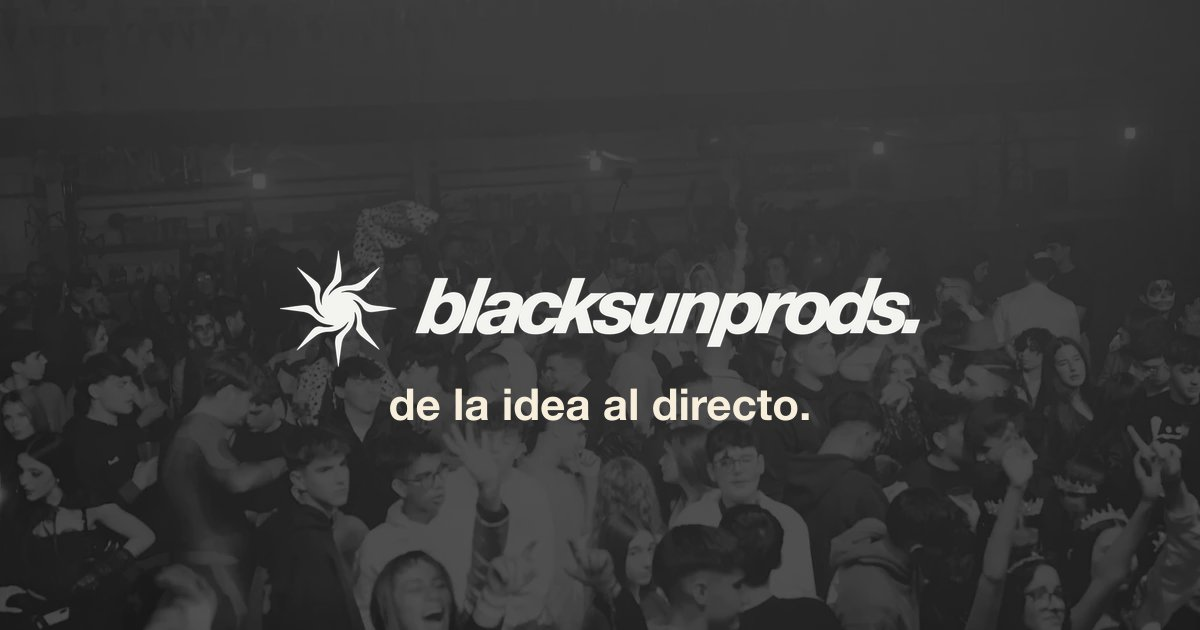
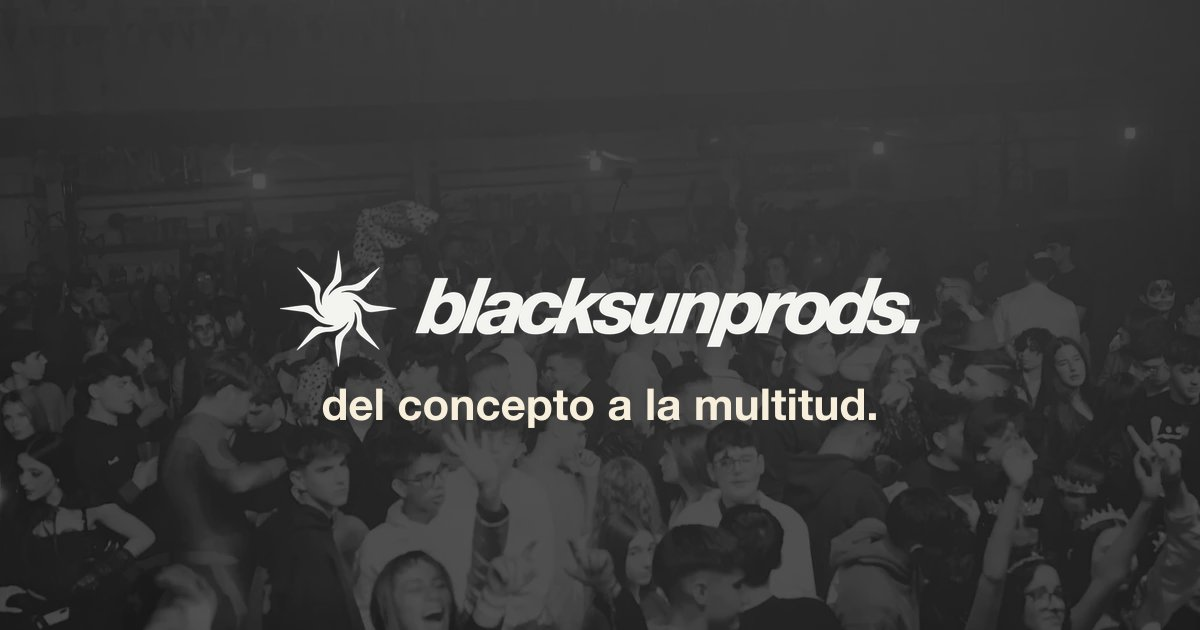
chore: frase del hero, CTA nuevo, testimonios y WhatsApp ocultos, noindex por defecto
- Hero: 'del concepto a la multitud.' (título y OG)
- CTA: '¿convertimos tu visión en realidad?' (home y ficha Halloween Fest)
- Testimonios ocultos con SHOW_TESTIMONIALS; WhatsApp y teléfono solo con número real
- PUBLIC_INDEXABLE: sin él, noindex + robots Disallow (versión de prueba segura)

Changed region(s): [[0.2467, 0.6032, 0.74, 0.6937]]

diff --git a/src/pages/robots.txt.ts b/src/pages/robots.txt.ts
@@ -1,8 +1,14 @@
 import type { APIRoute } from "astro";
 import { absUrl } from "../config/site.mjs";
 
+// Sin PUBLIC_INDEXABLE=true (p. ej. versión de prueba) se bloquea todo el rastreo.
+const INDEXABLE = import.meta.env.PUBLIC_INDEXABLE === "true";
+
 export const GET: APIRoute = () =>
   new Response(
-    ["User-agent: *", "Allow: /", "", `Sitemap: ${absUrl("/sitemap-index.xml")}`, ""].join("\n"),
+    (INDEXABLE
+      ? ["User-agent: *", "Allow: /", "", `Sitemap: ${absUrl("/sitemap-index.xml")}`, ""]
+      : ["User-agent: *", "Disallow: /", ""]
+    ).join("\n"),
     { headers: { "Content-Type": "text/plain; charset=utf-8" } }
   );

diff --git a/PENDIENTES.md b/PENDIENTES.md
@@ -4,8 +4,9 @@ Lista viva de lo que falta. Tacha (o borra) cada punto al resolverlo.
 
 ## Bloqueantes (no publicar sin esto)
 
-- [ ] **Teléfono / WhatsApp de empresa** → `src/config/site.mjs` (`phone`, `whatsapp`). Ahora es el número de ejemplo `34600000000` y el botón de WhatsApp del footer apunta ahí.
-- [ ] **Testimonios reales** de ayuntamientos y promotores → `src/pages/index.astro`, sección `#testimonios`. Hoy son 3 huecos marcados como "Pendiente" y **se ven en la web**.
+- [ ] **Teléfono / WhatsApp de empresa** → `src/config/site.mjs` (`phone`, `whatsapp`). Mientras siga el número de ejemplo `34600000000`, el botón de WhatsApp y el teléfono de Schema.org **no se muestran** (se activan solos al poner el número real).
+- [ ] **Testimonios reales** de ayuntamientos y promotores → `src/pages/index.astro`, sección `#testimonios`. **Oculta** (`SHOW_TESTIMONIALS = false`): sustituir los 3 huecos "Pendiente" y poner `true`.
+- [ ] **Indexación**: la web NO se indexa por defecto (noindex + robots Disallow). En el despliegue final con dominio, poner `PUBLIC_INDEXABLE=true` en Vercel.
 - [ ] **Datos legales del titular** (nombre/razón social, NIF, domicilio) en `src/pages/terminos.astro` y `src/pages/privacidad.astro`. Solo se ha cambiado el nombre de marca.
 - [ ] **Resend**: verificar el dominio `blacksunprods.com` y poner `RESEND_API_KEY` (el formulario no envía sin esto).
 - [ ] **Proyecto nuevo en Vercel** + dominios `blacksunprods.com` y `www.blacksunprods.com` + DNS. No enlazar al proyecto de Ascndr.
@@ -13,7 +14,8 @@ Lista viva de lo que falta. Tacha (o borra) cada punto al resolverlo.
 ## Contenido
 
 - [ ] **Blog (oculto, no olvidar)**. Las páginas están aparcadas en `src/_ocultos/` (fuera de `src/pages`, así que no se publican). Los 5 artículos de `src/content/blog/` son de branding de Ascndr: sustituirlos por temas del sector (p. ej. "cómo organizar un Halloween municipal", "qué incluye la producción integral de unas fiestas"). Para reactivarlo: mover `src/_ocultos/blog.astro` → `src/pages/blog.astro` y `src/_ocultos/blog/` → `src/pages/blog/`, y volver a enlazar "blog" en `Header.astro` y en los footers.
-- [ ] **Bendito Castigo**: fotos/vídeos, identidad visual y fechas → `src/pages/proyectos/bendito-castigo.astro` (y quitar la tarjeta tipográfica de proyectos/home cuando haya imagen).
+- [ ] **Cambiar imágenes de portada de Halloween Fest** (pedido por Frank): la de la tarjeta de `/proyectos` y la de la caja de proyectos de la home (ahora ambas `hw3-07.webp`) → `src/pages/proyectos.astro` y `src/pages/index.astro`.
+- [ ] **Bendito Castigo**: Frank enviará logo y conceptos para subirlos; también fotos/vídeos, identidad visual y fechas → `src/pages/proyectos/bendito-castigo.astro` (y quitar la tarjeta tipográfica de proyectos/home cuando haya imagen).
 - [ ] **Vídeo del hero**: ahora reutiliza el vídeo de Halloween Fest que tenía la web de Ascndr. Valorar un aftermovie/reel propio de @halloweenfestlv.
 - [ ] **Cónclave**: retirado de la web (era trabajo de diseño de Ascndr). Si fue producción vuestra, recuperarlo del historial de git.
 
